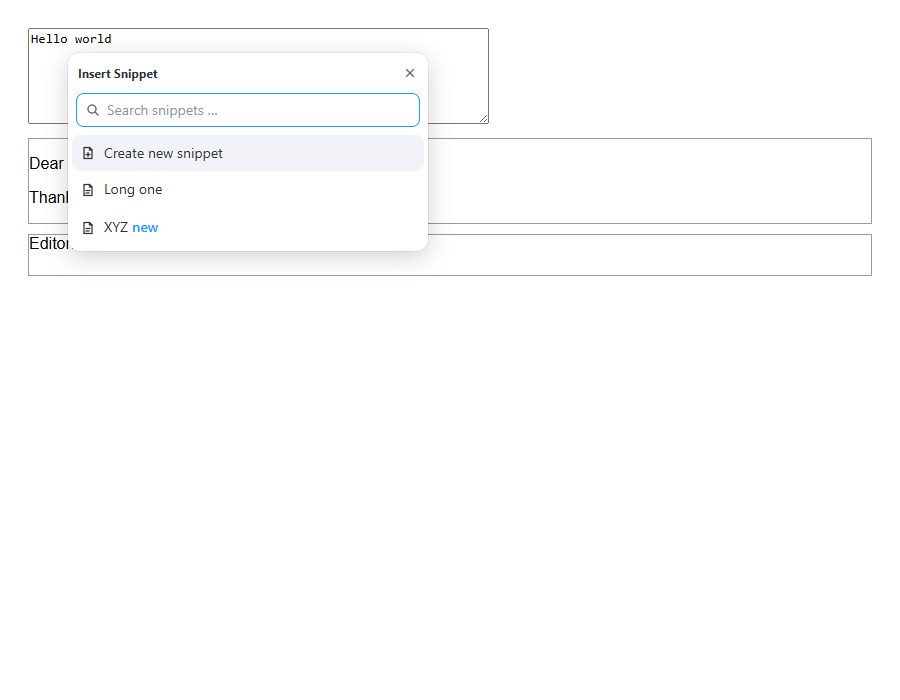
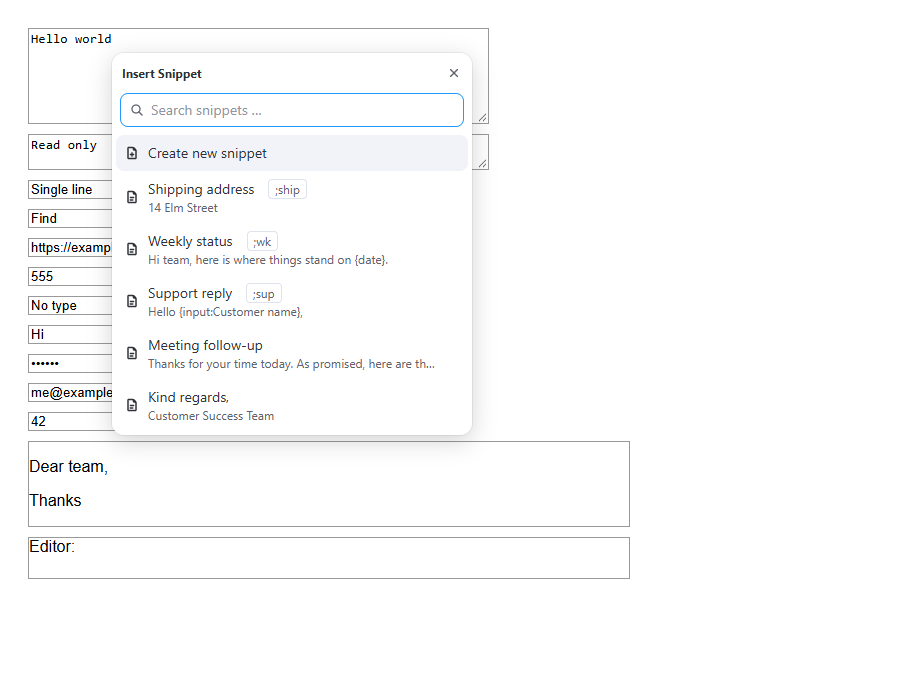
Release 1.2.0
Bump the version to 1.2.0 and document the release in the README: the
keyboard shortcut and the right-click menu, single-line fields, the
snippet manager, placeholders, abbreviations, Recently deleted, the
backup file format, and what the extension costs a page in memory and
script time. The README screenshot of the panel shows the new rows, and
a new one shows the manager.

A unit test checks that every change to the snippet list rewrites the
abbreviation index in the same storage write.

diff --git a/tests/unit/snippets.test.js b/tests/unit/snippets.test.js
@@ -116,3 +116,45 @@ test('preview line and character count', () => {
   assert.equal(lib.characterCount('x', 'en-US'), '1 character');
   assert.equal(lib.characterCount('x'.repeat(7693), 'en-US'), '7,693 characters');
 });
+
+// A stand-in for chrome.storage.local that keeps values in a Map and copies them like the real
+// storage does.
+function fakeStorage() {
+  const values = new Map();
+  const copy = (value) => (value === undefined ? undefined : JSON.parse(JSON.stringify(value)));
+  globalThis.chrome = {
+    storage: {
+      local: {
+        async get(keys) {
+          const result = {};
+          for (const key of [].concat(keys)) if (values.has(key)) result[key] = copy(values.get(key));
+          return result;
+        },
+        async set(items) {
+          for (const [key, value] of Object.entries(items)) values.set(key, copy(value));
+        },
+      },
+    },
+  };
+  return values;
+}
+
+test('every change to the list rewrites the abbreviation index with it', async () => {
+  const values = fakeStorage();
+  const index = () => values.get(lib.ABBREVIATIONS_KEY);
+  try {
+    const { snippet: a } = await lib.createSnippet({ content: 'A', title: '', abbreviation: ';a1' });
+    const { snippet: b } = await lib.createSnippet({ content: 'B', title: '', abbreviation: '' });
+    assert.deepEqual(index(), { ';a1': a.id });
+    await lib.updateSnippet(b.id, { content: 'B', title: '', abbreviation: ';b1' });
+    assert.deepEqual(index(), { ';a1': a.id, ';b1': b.id });
+    await lib.deleteSnippet(a.id);
+    assert.deepEqual(index(), { ';b1': b.id });
+    await lib.restoreSnippet(a.id);
+    assert.deepEqual(index(), { ';a1': a.id, ';b1': b.id });
+    await lib.updateSnippet(a.id, { content: 'A', title: '', abbreviation: '' });
+    assert.deepEqual(index(), { ';b1': b.id });
+  } finally {
+    delete globalThis.chrome;
+  }
+});

diff --git a/README.md b/README.md
@@ -1,8 +1,9 @@
 # Snippet Inserter
 
 A browser extension for Chrome and other Chromium-based browsers that inserts saved text snippets
-where you type. Double-tap Ctrl in a text box, a rich-text editor, or a Google Docs document,
-pick a snippet, and it is inserted at the cursor. Snippets have no length limit.
+where you type. Double-tap Ctrl, or press Ctrl+Shift+Space, in a text box, a rich-text editor, or a
+Google Docs document, pick a snippet, and it is inserted at the cursor. Snippets have no length
+limit, can hold the date, the time, and fill-in fields, and can be typed as abbreviations.
 
 The panel is modeled on the snippet manager in QuillBot's browser extension, without its
 1,024-character limit. This project is not affiliated with QuillBot.
@@ -14,13 +15,18 @@ The panel is modeled on the snippet manager in QuillBot's browser extension, wit
 ```
 extension/            The extension itself; this is the folder to load.
   manifest.json
-  content.js          Detects the double tap, places the panel, inserts the snippet.
+  content.js          Detects the double tap and abbreviations, places the panel, inserts.
   panel.html/.css/.js The snippet panel, shown in an extension iframe.
-  options.html/.js    Settings page (which key opens the panel).
-  background.js       Opens the settings page from the toolbar icon.
+  options.html/.css/.js
+                      The snippet manager, opened from the toolbar icon.
+  background.js       The right-click menu items and the keyboard shortcut.
+  lib/
+    snippets.js       Storage, import and export, abbreviation rules.
+    placeholders.js   {date}, {time}, {cursor}, and {input:Label}.
   icons/
 tests/
   e2e/                Playwright end-to-end tests and their fixtures.
+  unit/               Node unit tests for extension/lib.
   live/               The check against the real Google Docs editor.
   pages/              Test pages served to the browser during the tests.
 scripts/
@@ -43,37 +49,81 @@ loaded this way while developer mode is off.
 
 ## Use
 
-Click in a textarea, a rich-text editor, or a Google Docs document and tap Ctrl twice quickly.
+Click in a textarea, a single-line text field, a rich-text editor, or a Google Docs document and
+tap Ctrl twice quickly, or press Ctrl+Shift+Space. You can also right-click a field and choose
+"Insert snippet...".
 
 - With snippets saved, the panel lists them. Pick one with the mouse, with the arrow keys and
   Enter, or with Ctrl+2 to Ctrl+9 (Ctrl+1 is "Create new snippet").
-- Type in the search box to filter. Filtering starts at three characters, after a half-second
-  pause, and matches words that start with the query in the name or the text.
+- Type in the search box to filter. Search matches words that start with what you type, in the
+  name or the text, and abbreviations that start with it.
+- Alt+Up and Alt+Down move the highlighted snippet while the search box is empty. The order
+  decides which snippets get Ctrl+2 to Ctrl+9.
 - If text is selected when the panel opens, the first entry reads "Create snippet from
   selection" and the form starts with that text. Picking a snippet replaces the selection.
-- The pencil on a snippet opens the edit form, which also has "Delete snippet" (Ctrl+1).
-- In a form, Ctrl+Enter saves, and Enter in the name field saves too. Escape goes back to the
-  list, and Escape in the list closes the panel.
+- The pencil on a snippet opens the edit form, with Duplicate and Delete below it. No shortcut
+  deletes. After a delete, the list shows "Snippet deleted." with Undo, and Ctrl+Z in the list
+  does the same.
+- In a form, Ctrl+Enter saves, and Enter in the name or abbreviation field saves too. Escape goes
+  back to the list, and Escape in the list closes the panel.
+- To save text from any page as a snippet, select it, right-click, and choose "Save selection as
+  snippet".
 
 The snippet gets a leading space when the character before the caret is not a space or line
 break, and a trailing space when the character after it is not a space, line break, or
-punctuation. Google Docs is the exception; see below.
+punctuation. Google Docs is the exception; see below. In a single-line field, a multi-line
+snippet goes in as one line: each line break, with the spaces around it, becomes one space.
 
-The trigger key can be changed to Shift or Alt, or turned off, from the extension's options page
-(click its toolbar icon).
+Click the extension's toolbar icon to open the snippet manager: every snippet with a large
+editor, drag-and-drop ordering, Recently deleted (the last 20 deleted snippets), and Settings and
+backup. There you can change the trigger key to Shift or Alt or turn it off, see the keyboard
+shortcut and change it in the browser's shortcuts page, turn abbreviations off, and export or
+import snippets.
+
+![Snippet manager](docs/screenshots/manager.png)
+
+## Placeholders
+
+Snippet text can hold placeholders, which are filled in when the snippet is inserted. The
+examples are for English (United States) on 20 November 2026 at 9:14.
+
+| Placeholder | Becomes |
+| --- | --- |
+| `{date}` | November 20, 2026 |
+| `{date:short}` | 11/20/26 |
+| `{date:iso}` | 2026-11-20 |
+| `{time}` | 9:14 AM |
+| `{time:iso}` | 09:14 |
+| `{cursor}` | Nothing; the caret ends here after the insert |
+| `{input:Customer name}` | What you type in the fill-in form |
+
+Dates and times use the language of the field. A snippet with `{input:...}` placeholders opens a
+fill-in form first, with one field per label and a preview; Enter moves to the next field and
+Ctrl+Enter inserts. Only these exact forms are recognized, so other text in braces, such as JSON,
+is inserted as written. The edit form lists the placeholders it finds in the text.
+
+## Abbreviations
+
+A snippet can have an abbreviation, such as `;addr`. Typing the abbreviation in a text field
+replaces it with the snippet, and Ctrl+Z brings the typed text back. It expands only after the
+start of the field, a space, punctuation, or a symbol, so `;addr` inside `x;addr` stays as typed.
+An abbreviation has 2 to 32 characters and no spaces, and one abbreviation cannot start another,
+because the shorter one would always expand first.
 
 ## Google Docs
 
 Docs draws the document on a canvas and takes typing through a hidden frame, so the extension
 opens the panel at the cursor Docs draws and inserts the snippet into that frame as a paste.
 Picking a snippet over a selection replaces it, "Create snippet from selection" works, one Ctrl+Z
-removes an insert, and with other people in the document the panel opens at your own cursor.
-Three things differ from other editors:
+removes an insert, and with other people in the document the panel opens at your own cursor. The
+keyboard shortcut works as well. These things differ from other editors:
 
 - No space is added before or after the snippet, because Docs does not expose the text next to
   the cursor.
 - Docs drops spaces at the very start and end of a pasted snippet.
 - Each line break in the snippet starts a new paragraph.
+- Abbreviations do not expand, and `{cursor}` has no effect, because the text and the cursor
+  position are not in the page.
 
 Docs has no documented interface for this, so the extension relies first on how the browser
 delivers focus and pastes, and treats the Docs names it uses as hints with a fallback for each.
@@ -87,15 +137,52 @@ only, not Slides or Sheets, and other sites are not affected.
 ## Limits
 
 - Snippet content has no length limit. A snippet name can be up to 128 characters.
-- Single-line inputs (`<input type="text">`) are not supported, only textareas, rich-text
-  editors, and Google Docs.
+- Single-line fields work when their type is text, search, url, or tel. Password, email, and
+  number fields are left alone: email and number fields do not expose the cursor position.
+- When a field's `maxlength` would cut a snippet short, nothing is inserted and a notice says
+  how many characters fit.
 
 ## Storage
 
 Snippets are kept in `chrome.storage.local` under `snippet_manager.snippets`, as an array of
-`{ createdAt, content, title, id }` records. The extension has the `unlimitedStorage` permission,
-so the browser's 10 MB local-storage quota does not apply. Nothing is synced or sent over the
-network.
+`{ createdAt, content, title, id }` records, plus `abbreviation` when a snippet has one. The
+array order is the order of the list. Deleted snippets go to `snippet_manager.deleted`, newest
+first, at most 20, each with `deletedAt` and its old position. `snippet_manager.abbreviations`
+holds a small `{ abbreviation: id }` copy written with every change to the list, so pages read
+only that. The extension has the `unlimitedStorage` permission, so the browser's 10 MB
+local-storage quota does not apply. Nothing is synced or sent over the network.
+
+Export in the manager saves every snippet to `snippets-YYYY-MM-DD.json`:
+
+```json
+{
+  "format": "snippet-inserter",
+  "version": 1,
+  "exportedAt": "2026-11-20T09:30:00.000Z",
+  "snippets": [{ "createdAt": "...", "content": "...", "title": "...", "id": "..." }]
+}
+```
+
+Import accepts that file, or a bare array of records. It never changes or removes a stored
+snippet: it skips records whose name and text match a stored snippet, gives a new id to a record
+whose id is in use, and drops an abbreviation that is already taken. A file with a higher
+`version` is refused with a message to update the extension.
+
+## Resource use
+
+The extension adds no network traffic, timers, or caches, and nothing runs while a page is
+idle. Measured in Playwright's Chromium 159 on Windows, as the median of five page loads:
+
+- **Each frame of a page**: the browser itself spends about 170 KB on any extension's content
+  script. This extension's own code adds about 35 to 70 KB of memory, and 0.3 to 0.9 ms of
+  script time when the frame loads.
+- **Each typed character**: about 7 microseconds of script, or about 12 microseconds with 50
+  abbreviations stored. The abbreviation check looks only at the last few characters before
+  the cursor, so the size of the field does not matter.
+- **At load**: one storage read per frame, for the settings and the abbreviation list, never
+  the snippet text. The snippet text is read when the panel opens or an abbreviation matches.
+- **The panel** exists only while it is open, and the service worker runs only for the toolbar
+  icon, the menu items, and the shortcut.
 
 ## Tests
 
@@ -107,7 +194,12 @@ npm run browsers      # once: downloads Playwright's Chromium build
 npm test              # headless run
 npm run test:headed   # watch the browser
 npm run test:report   # open the HTML report of the last run
+npm run test:unit     # Node unit tests for extension/lib, no browser
 ```
+
+Playwright cannot open the browser's own right-click menu or press an extension command, so the
+menu and shortcut tests call the service worker's handlers, which it exposes as
+`self.snippetInserter`. The real menu and shortcut call the same functions.
 
 `tests/pages/docs.html` stands in for the Google Docs editor in `npm test`, and its query
 parameters imitate changes Google could make, such as a renamed input frame or a missing cursor.
